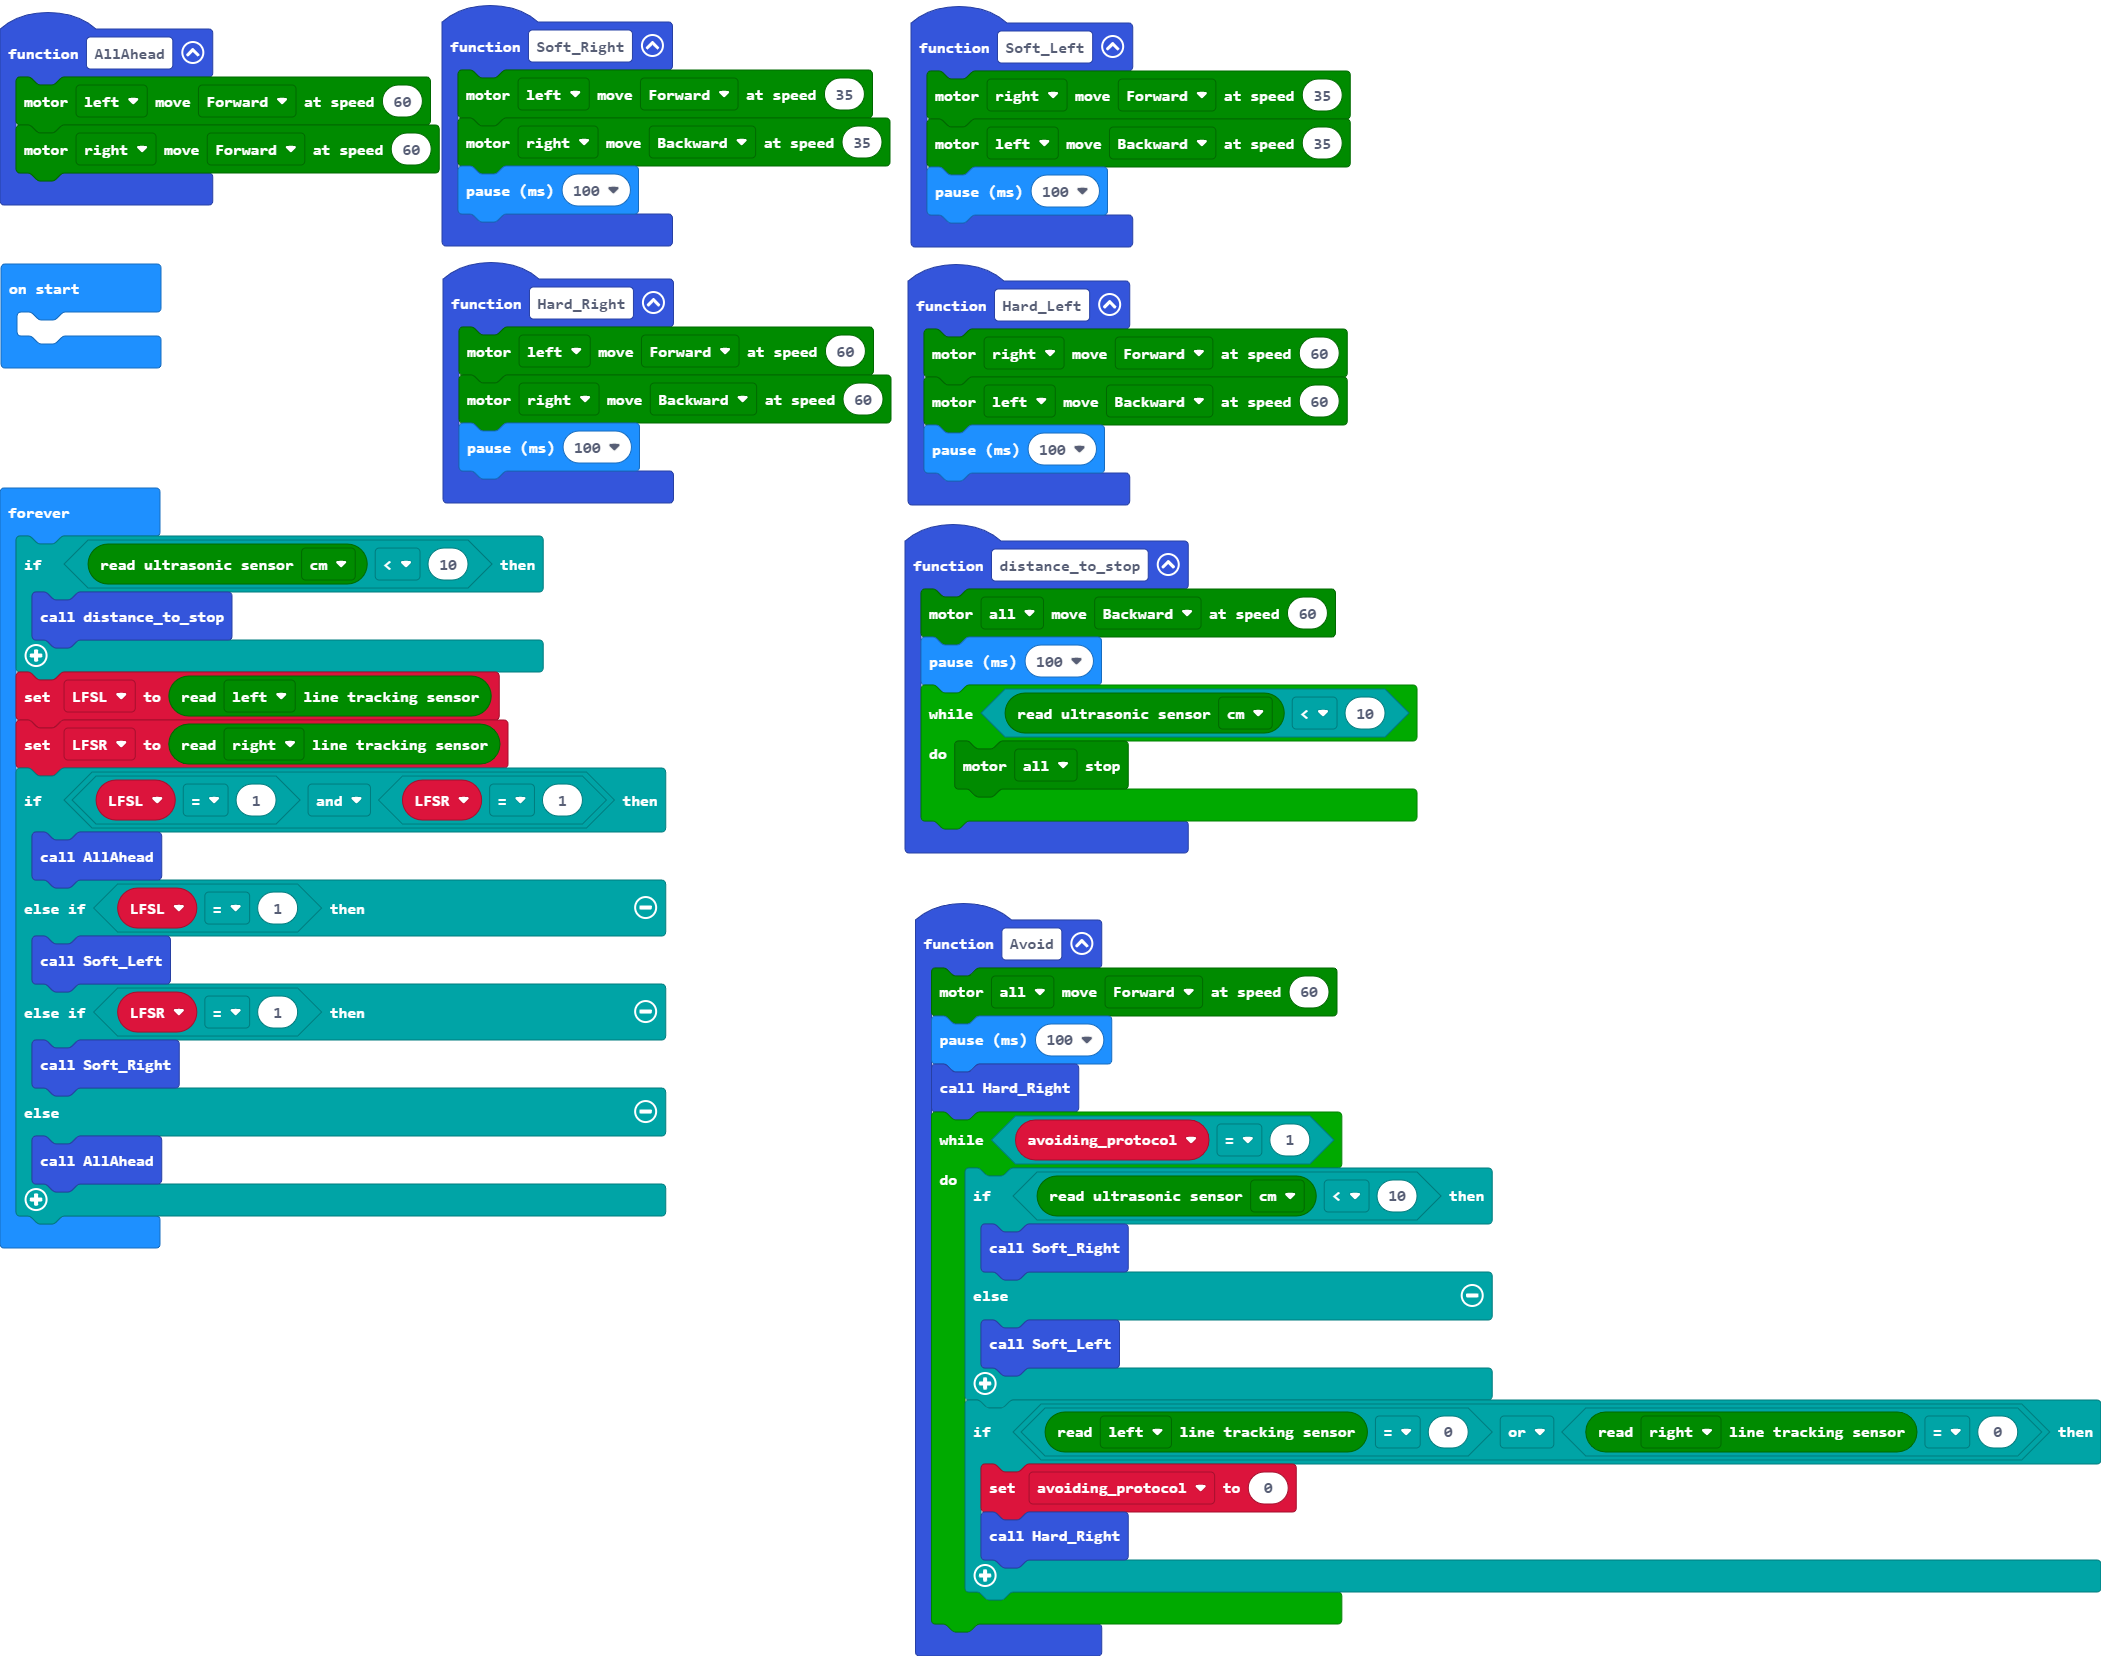
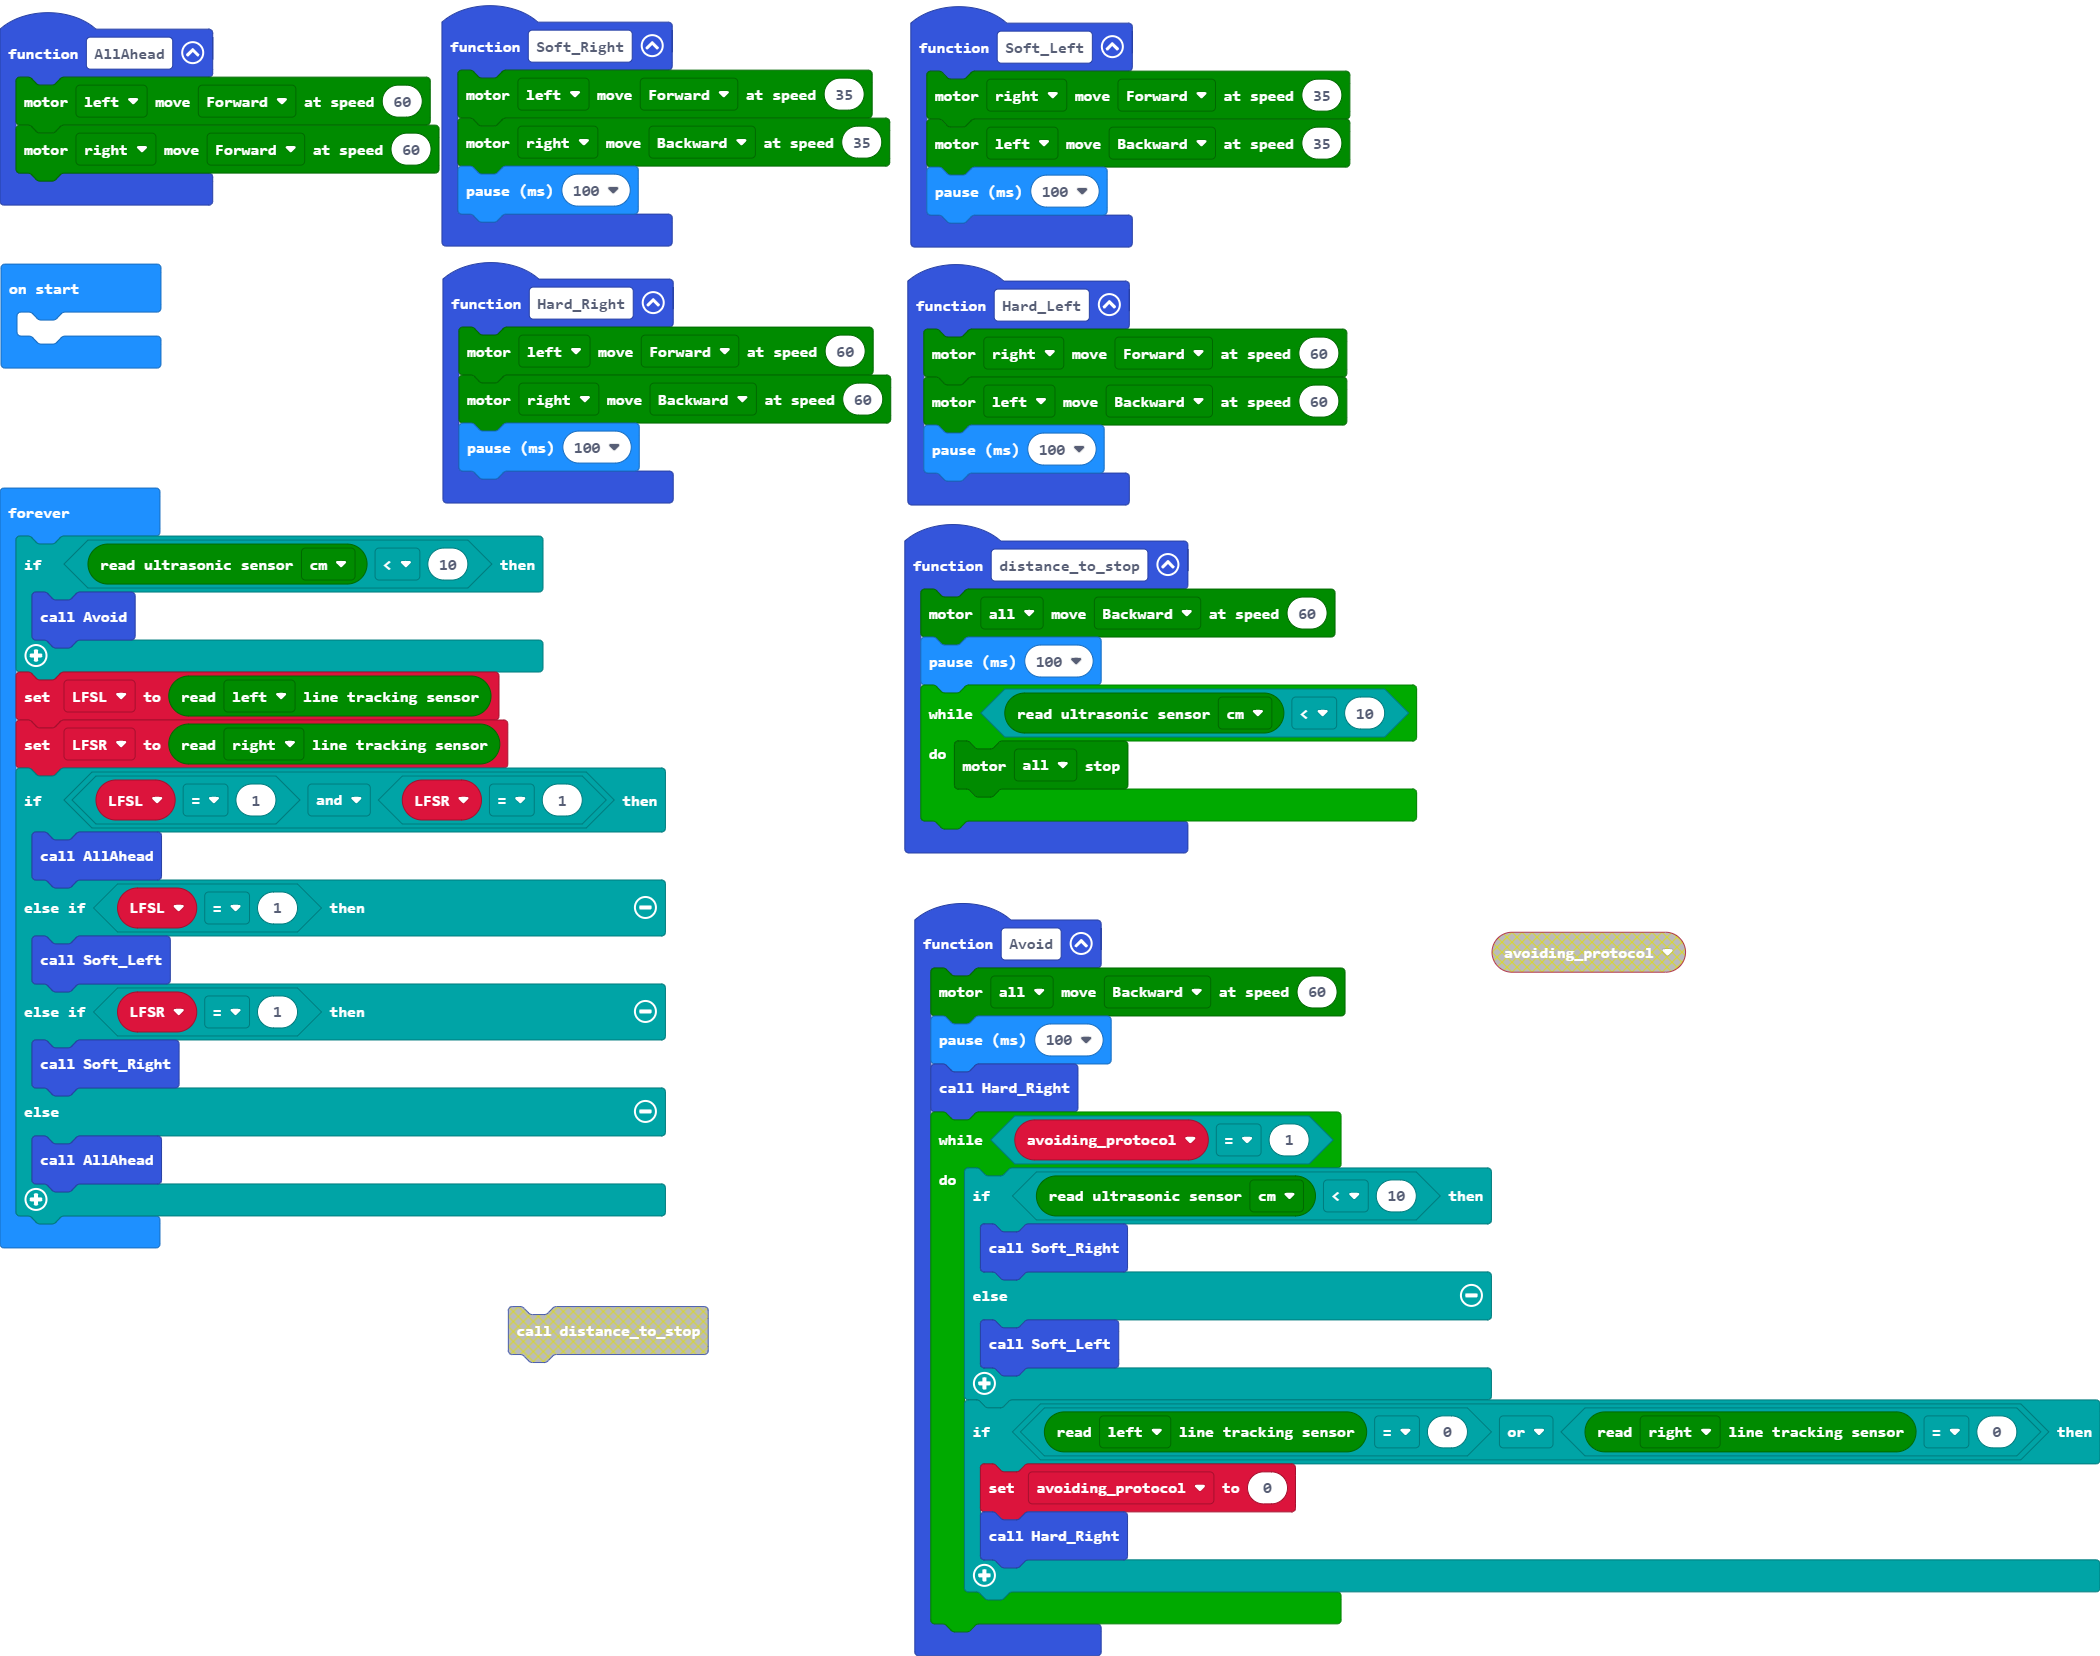
Update main.blocks, main.ts

diff --git a/main.ts b/main.ts
@@ -33,7 +33,7 @@ function Hard_Right () {
     basic.pause(100)
 }
 function Avoid () {
-    maqueen.motorRun(maqueen.Motors.All, maqueen.Dir.CW, 60)
+    maqueen.motorRun(maqueen.Motors.All, maqueen.Dir.CCW, 60)
     basic.pause(100)
     Hard_Right()
     while (avoiding_protocol == 1) {
@@ -50,7 +50,7 @@ function Avoid () {
 }
 basic.forever(function () {
     if (maqueen.Ultrasonic(PingUnit.Centimeters) < 10) {
-        distance_to_stop()
+        Avoid()
     }
     LFSL = maqueen.readPatrol(maqueen.Patrol.PatrolLeft)
     LFSR = maqueen.readPatrol(maqueen.Patrol.PatrolRight)
